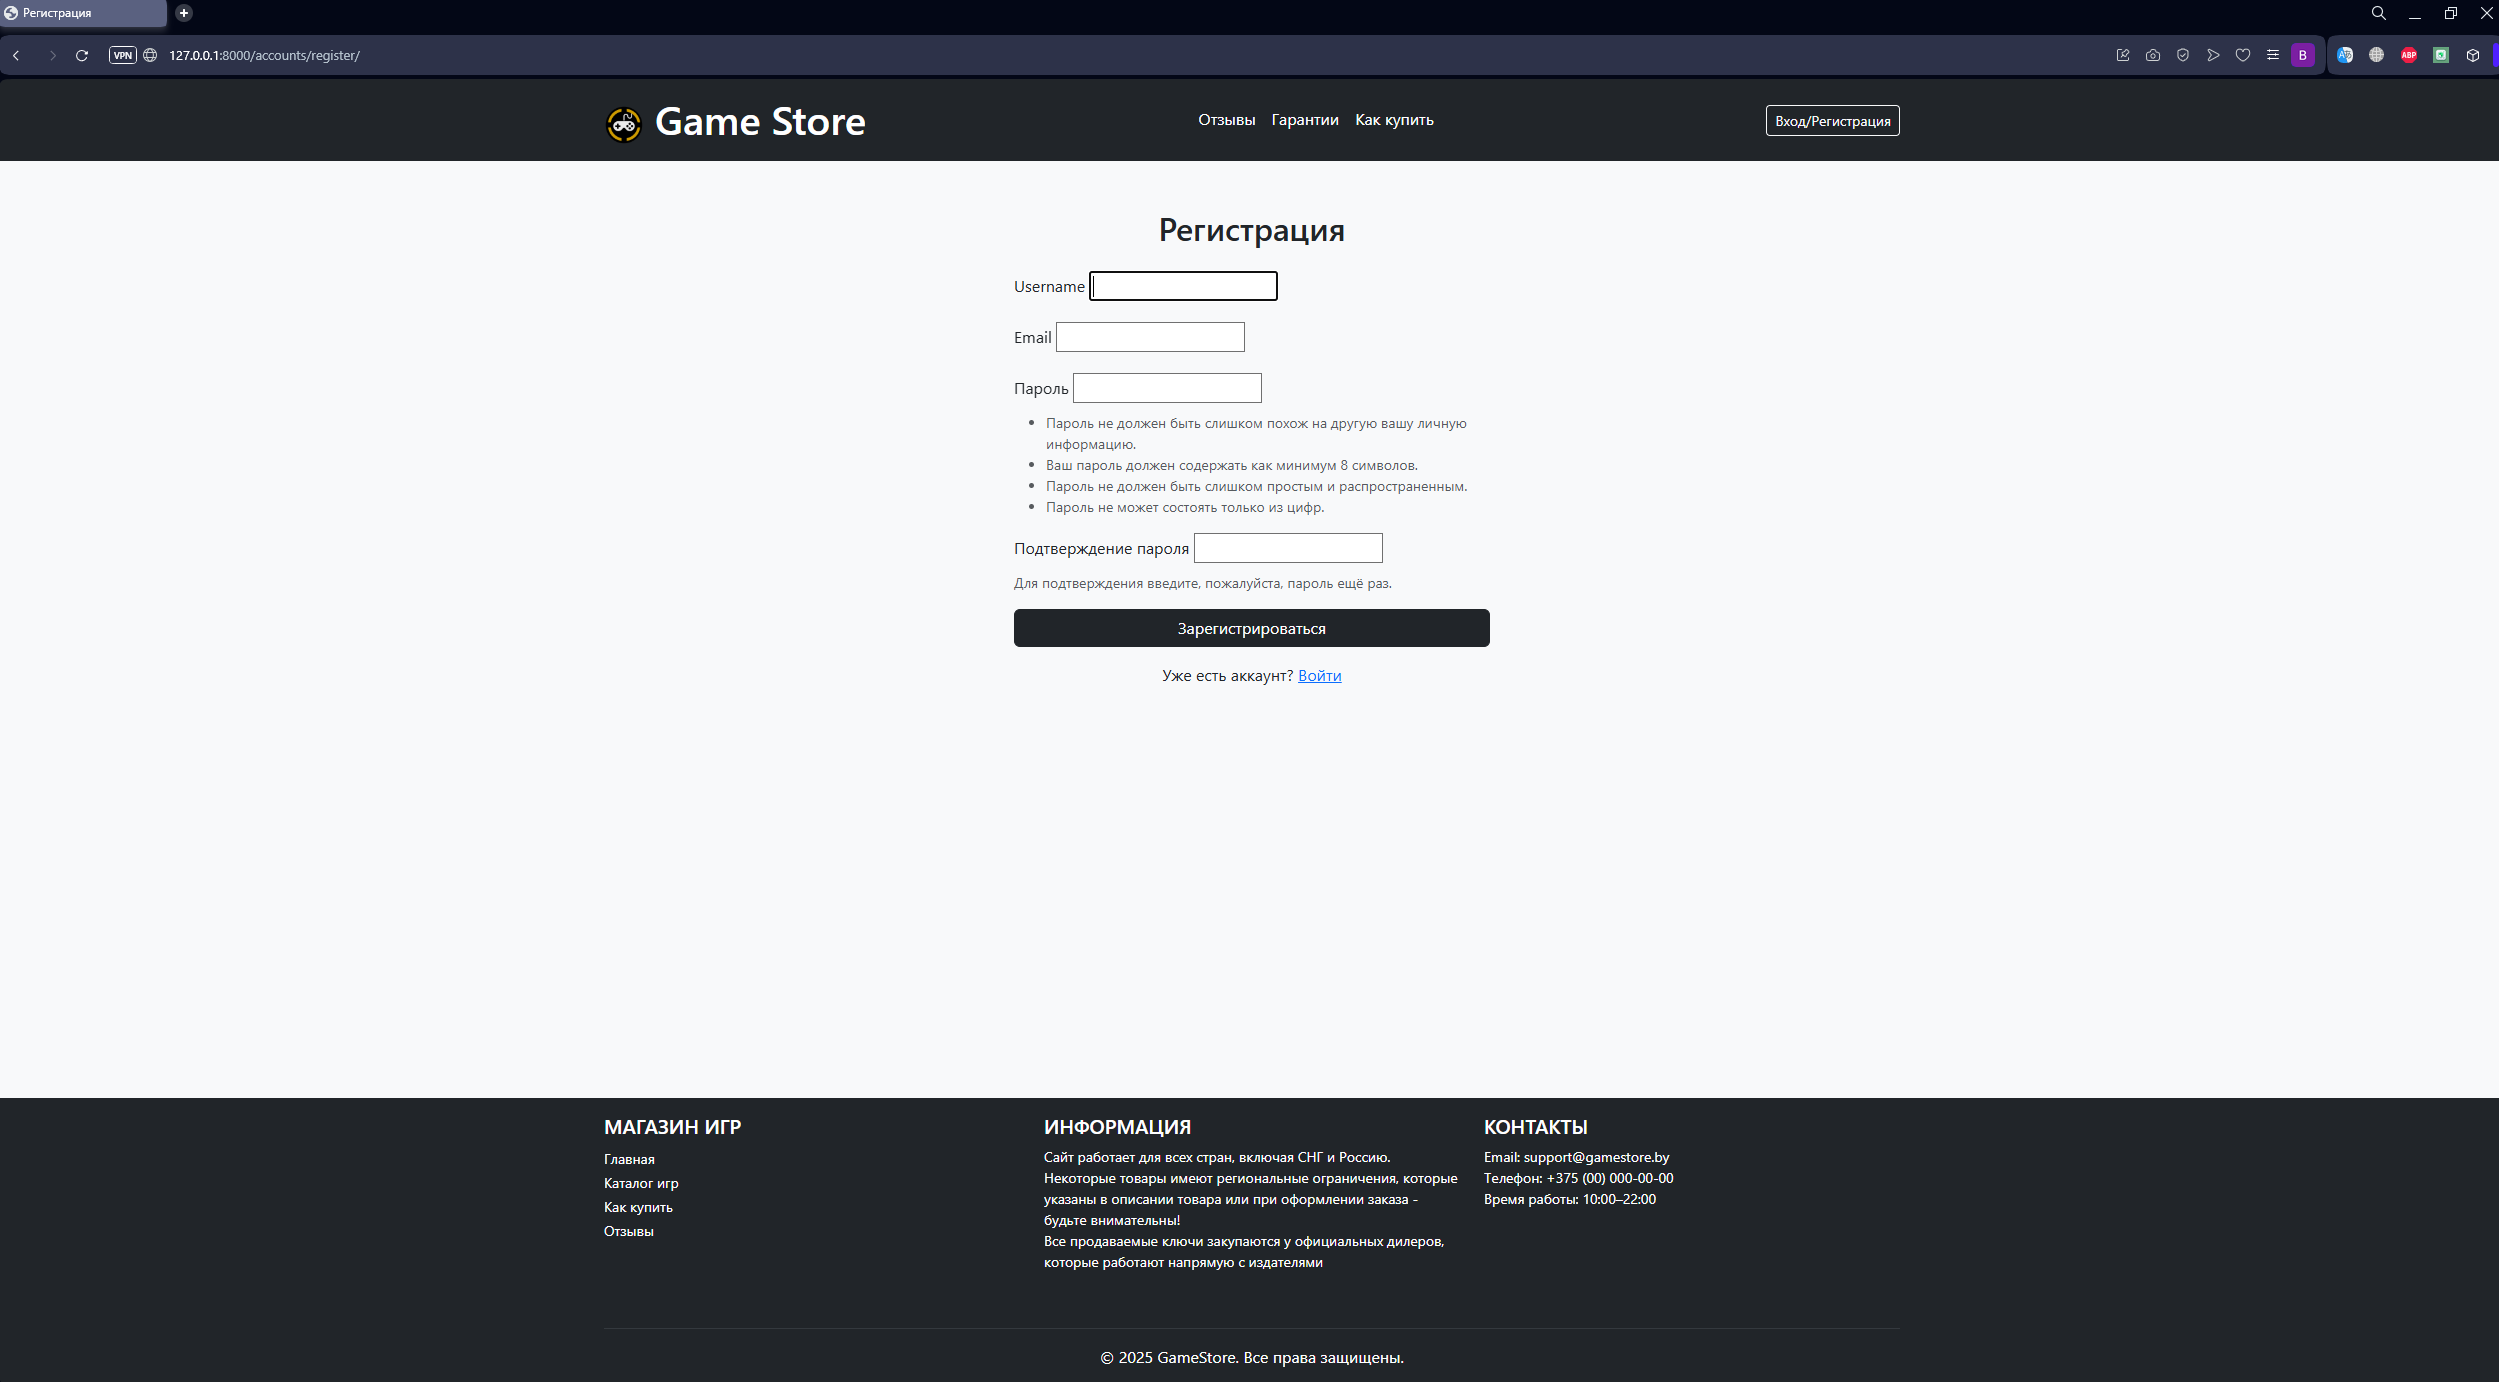
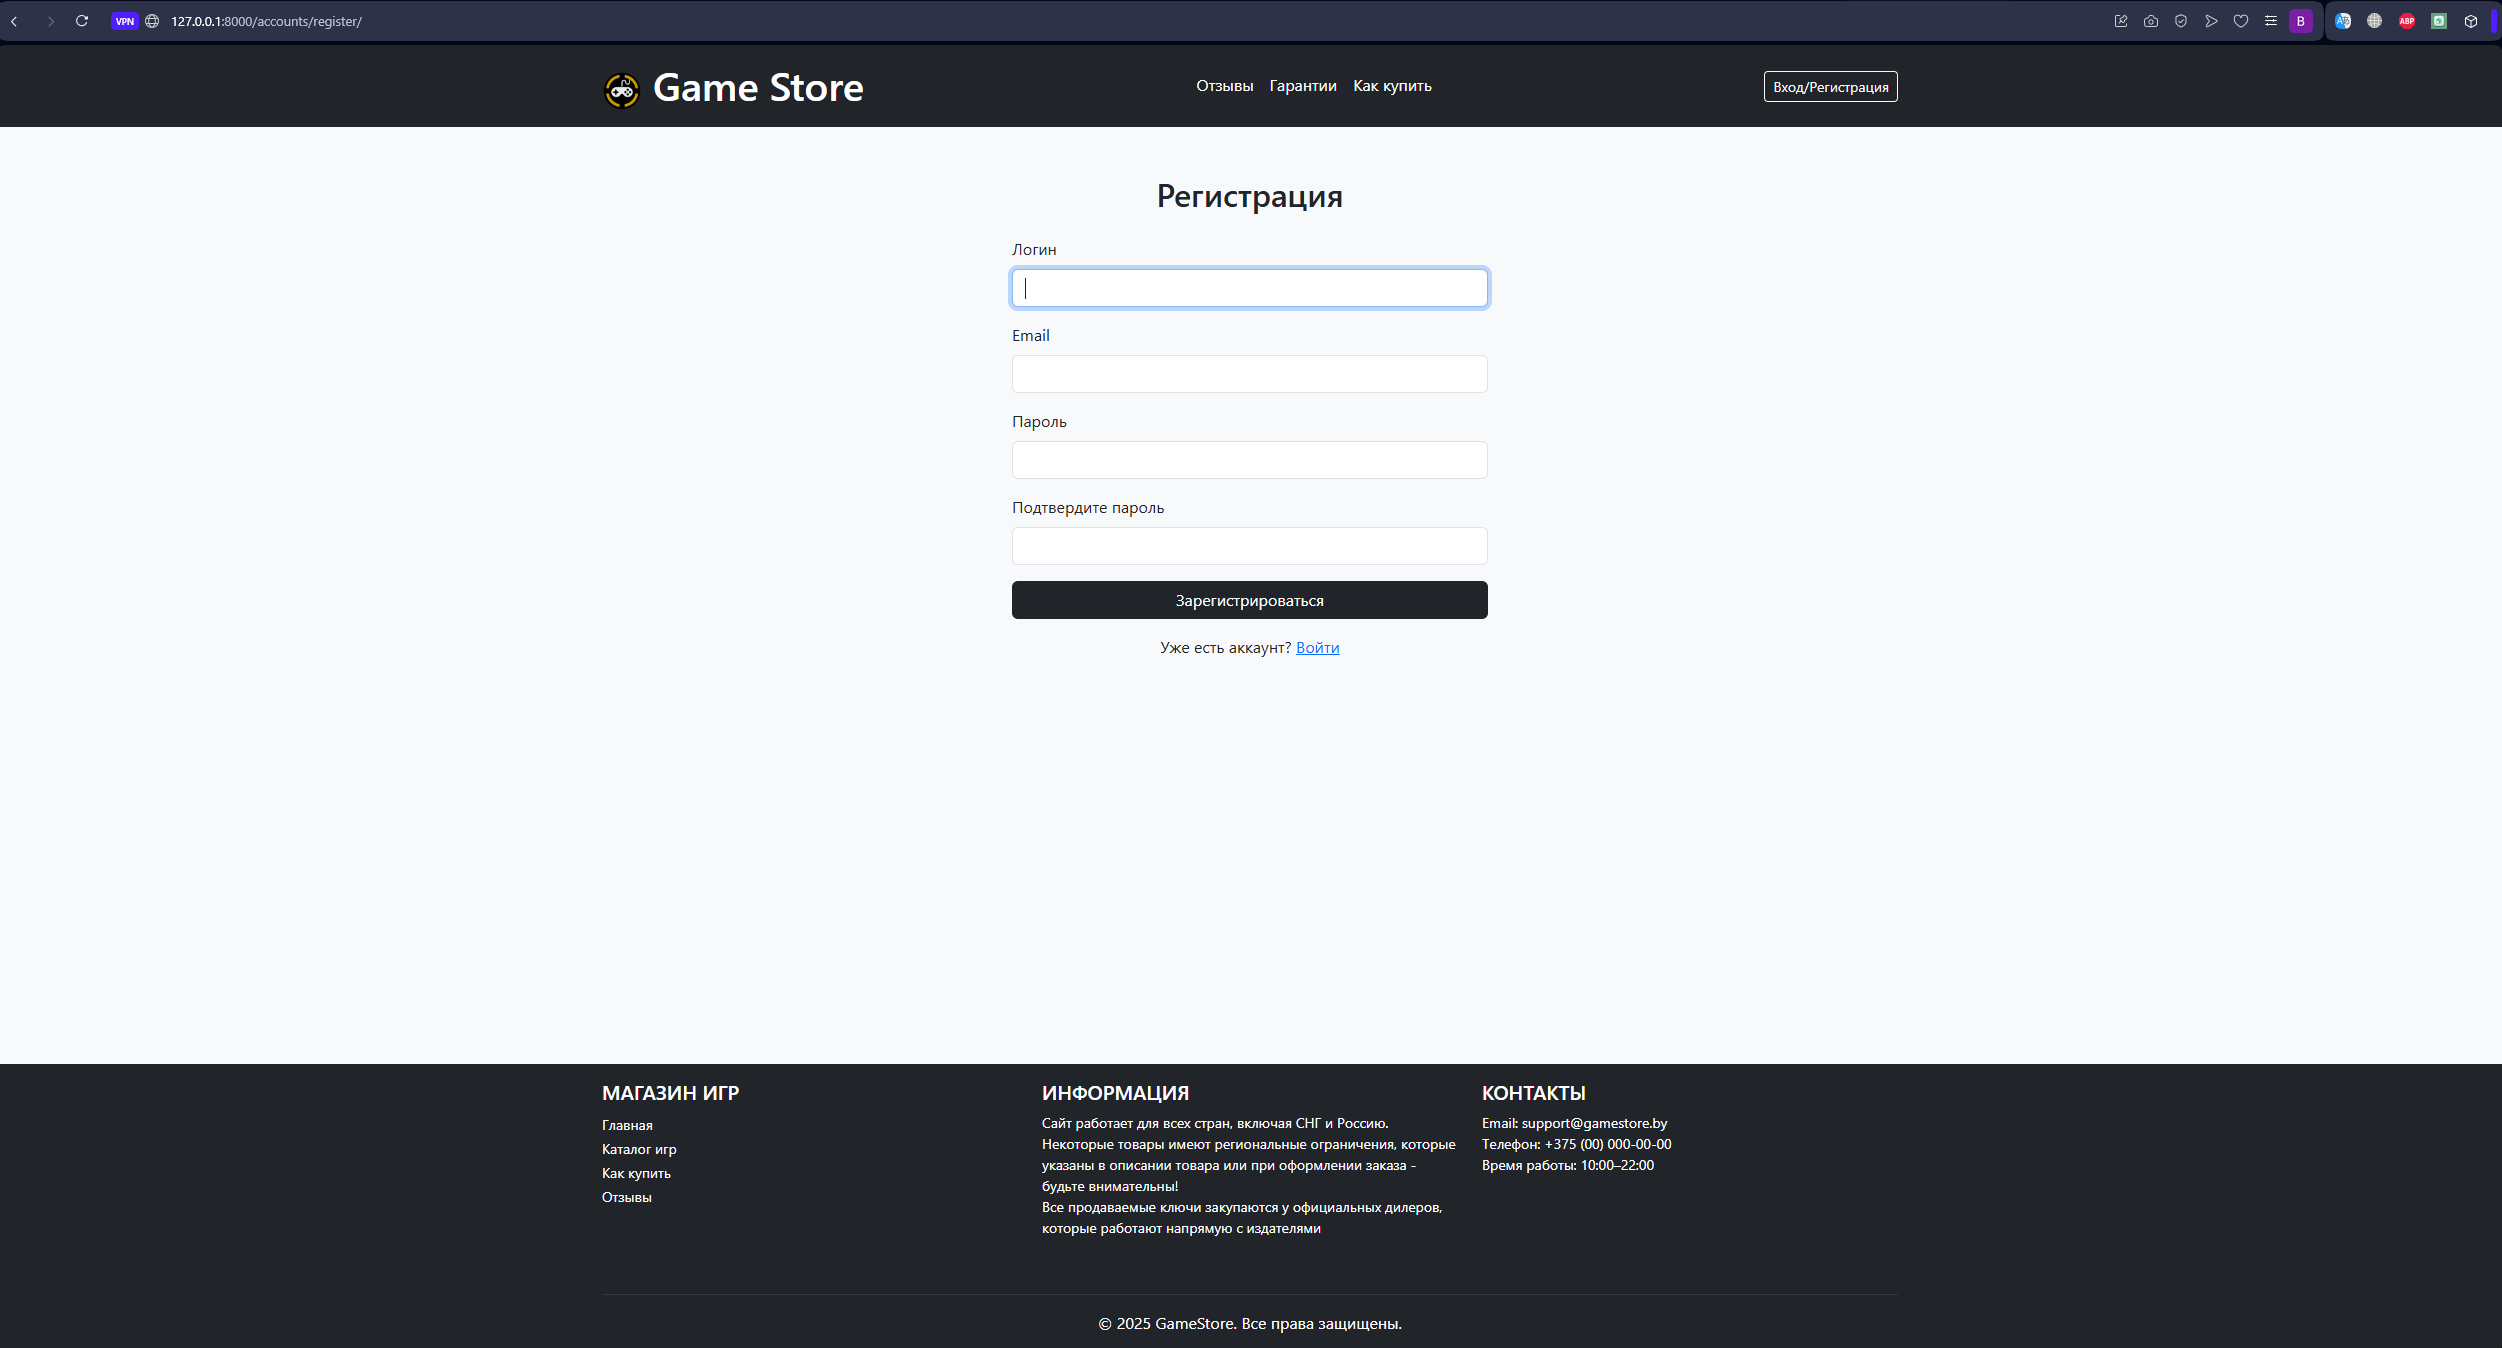
update form register and edit README

Changed region(s): [[0.0, 0.0, 1.0, 0.4985], [0.0, 0.7789, 1.0, 0.9347], [0.437, 0.9659, 0.5618, 0.997]]

diff --git a/user/templates/user/register.html b/user/templates/user/register.html
@@ -14,9 +14,7 @@
       <div class="mb-3">
         <label for="{{ field.id_for_label }}" class="form-label">{{ field.label }}</label>
         {{ field }}
-        {% if field.help_text %}
-          <div class="form-text">{{ field.help_text }}</div>
-        {% endif %}
+
         {% for error in field.errors %}
           <div class="text-danger small">{{ error }}</div>
         {% endfor %}

diff --git a/user/forms.py b/user/forms.py
@@ -1,11 +1,28 @@
+from cProfile import label
+
 from django import forms
 from django.contrib.auth import get_user_model
-from django.contrib.auth.forms import UserCreationForm, AuthenticationForm, UserChangeForm
+from django.contrib.auth.forms import UserCreationForm, AuthenticationForm
 
 User = get_user_model()
 
 class RegisterForm(UserCreationForm):
-    email = forms.EmailField(required=True)
+    username = forms.CharField(
+        label="Логин",
+        widget=forms.TextInput(attrs={'class': 'form-control'})
+    )
+    email = forms.EmailField(
+        required=True,
+        widget=forms.EmailInput(attrs={'class': 'form-control'})
+    )
+    password1 = forms.CharField(
+        label="Пароль",
+        widget=forms.PasswordInput(attrs={'class': 'form-control'})
+    )
+    password2 = forms.CharField(
+        label="Подтвердите пароль",
+        widget=forms.PasswordInput(attrs={'class': 'form-control'})
+    )
 
     class Meta:
         model = User

diff --git a/Store/settings.py b/Store/settings.py
@@ -11,6 +11,8 @@ https://docs.djangoproject.com/en/5.2/ref/settings/
 """
 import os
 from pathlib import Path
+from dotenv import load_dotenv
+load_dotenv()
 
 
 # Build paths inside the project like this: BASE_DIR / 'subdir'.
@@ -24,7 +26,7 @@ BASE_DIR = Path(__file__).resolve().parent.parent
 SECRET_KEY = 'django-insecure-r!add$yh!k-cgp&#wcr%k9m8$(9xj+i)wa)=_56ocsio85e%b3'
 
 # SECURITY WARNING: don't run with debug turned on in production!
-DEBUG = False
+DEBUG = True
 
 ALLOWED_HOSTS = []
 

diff --git a/payment/views.py b/payment/views.py
@@ -1,5 +1,5 @@
 from django.core.mail import send_mail
-from django.http import HttpRequest, HttpResponse
+from django.http import HttpResponse
 from django.shortcuts import render, redirect, get_object_or_404
 import stripe
 from orders.models import Order

diff --git a/README.md b/README.md
@@ -40,7 +40,7 @@
 ### Личный кабинет/Регистрация/Вход
 
 <img src="screenshots/profile.png" width="500"/> 
-<img src="screenshots/register.png" width="500"/> 
+<img src="screenshots/register.png" width="500"/>
 <img src="screenshots/login.png" width="500"/> 
 
 ### ✅ Завершение покупки и отправка ключей
